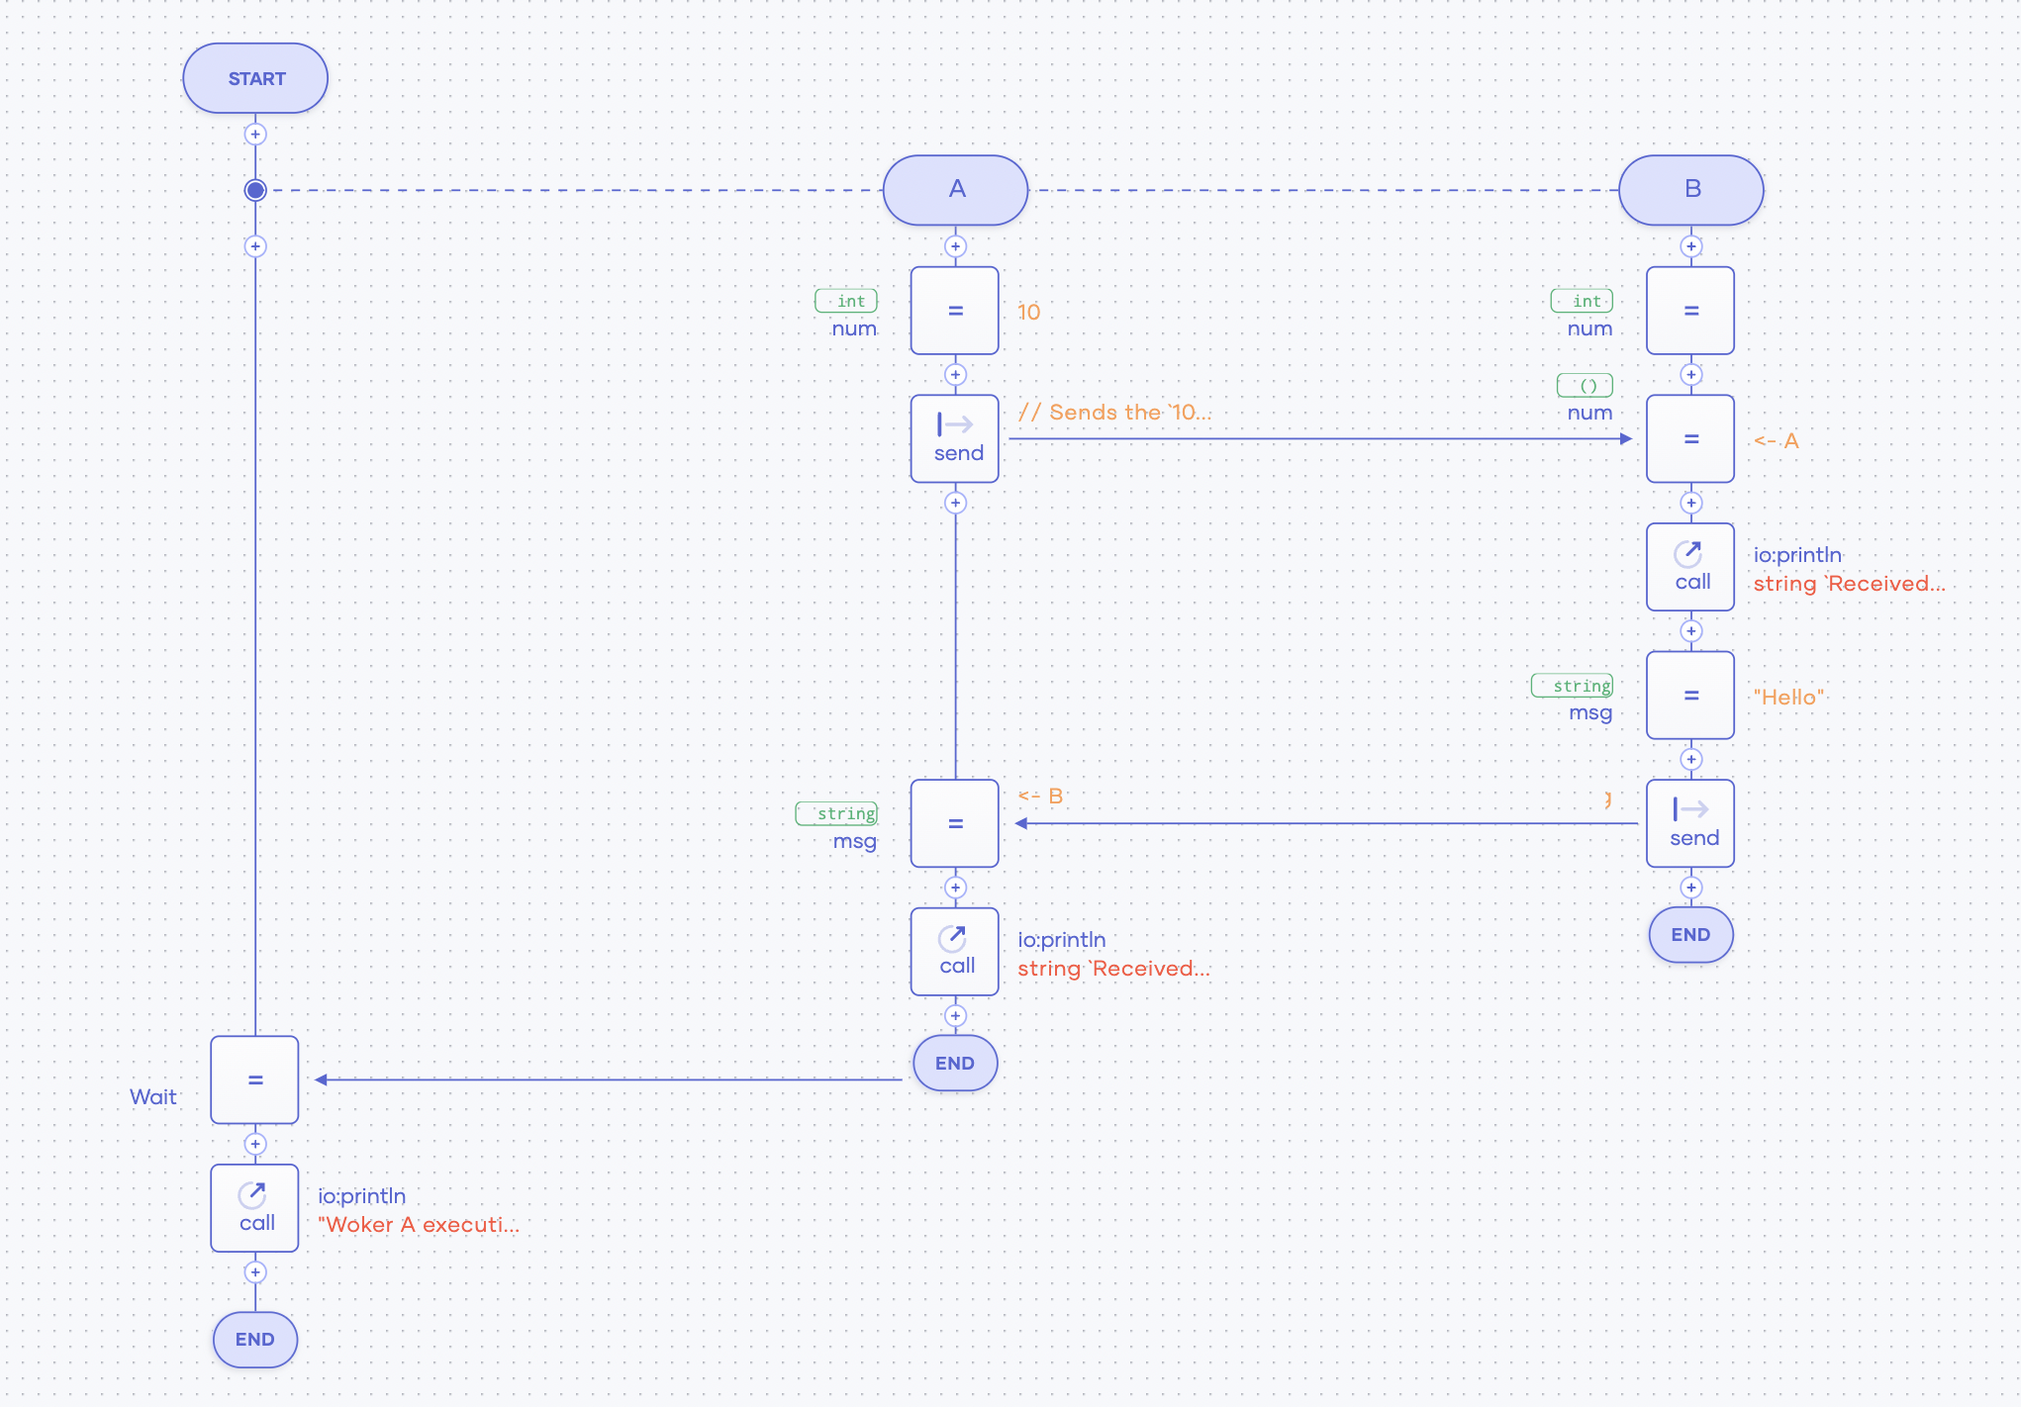
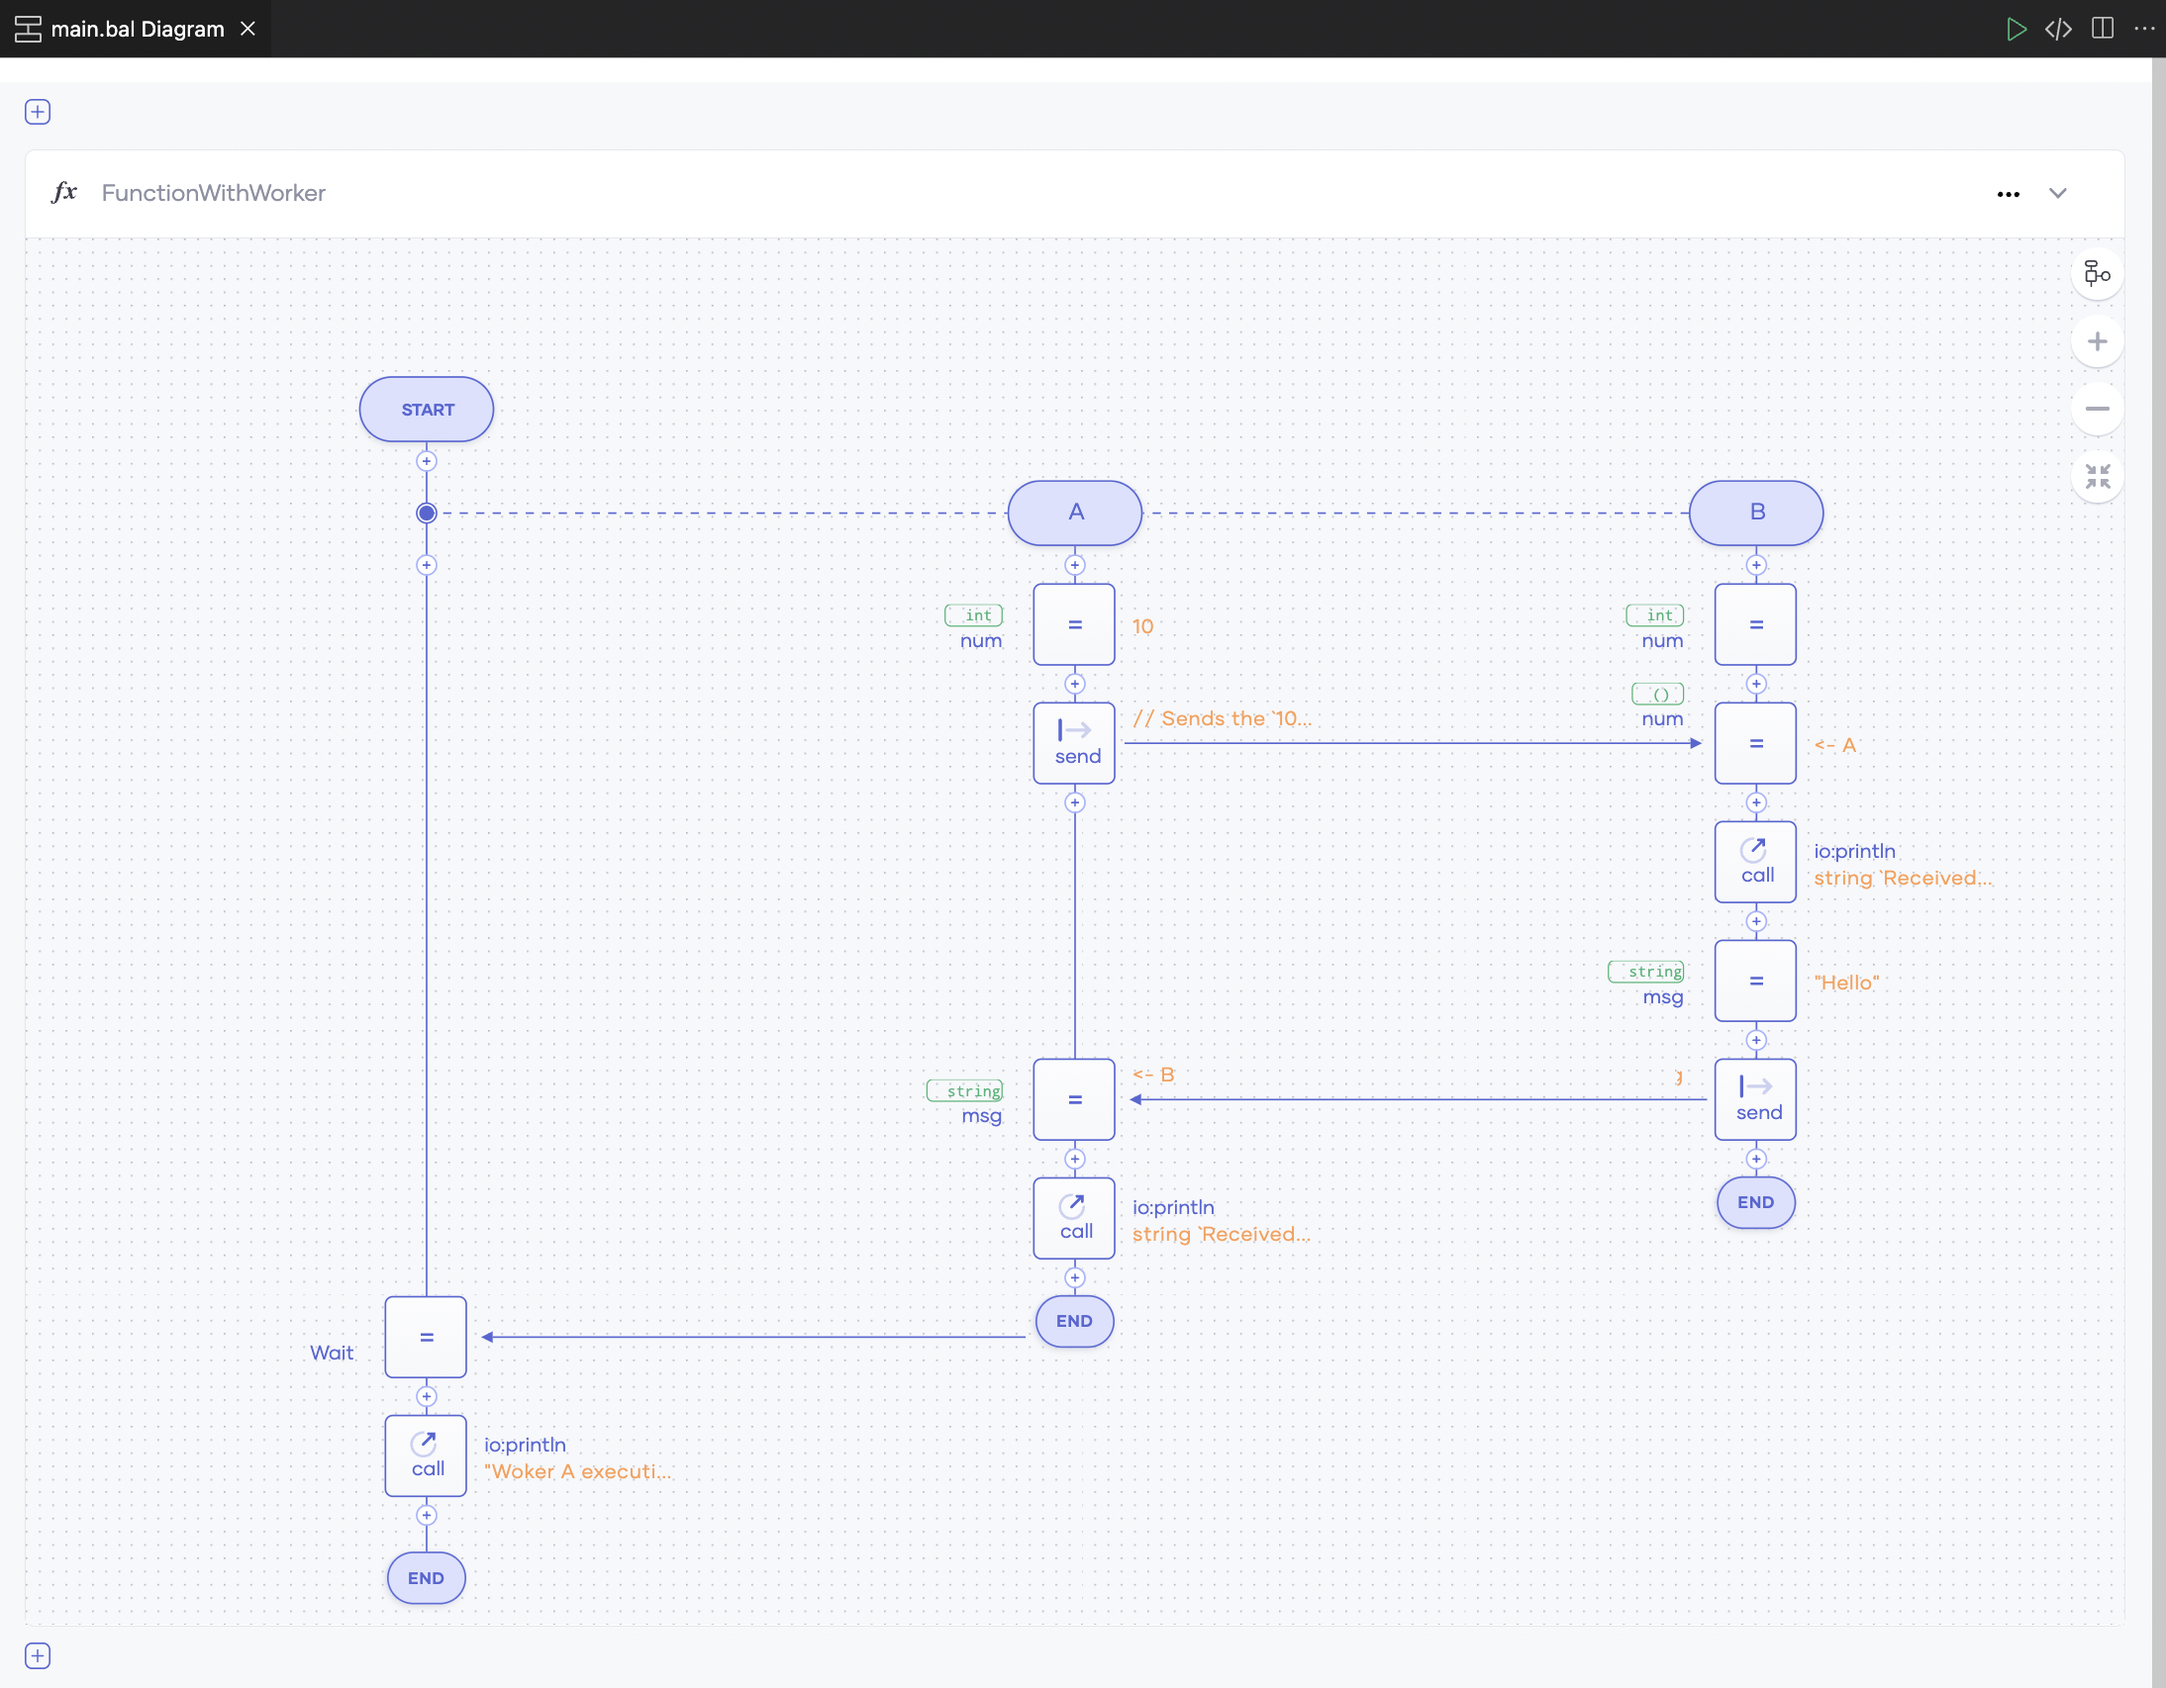
fixing diagram incostency

diff --git a/en/docs/visual-programming/sequence-diagram-view.md b/en/docs/visual-programming/sequence-diagram-view.md
@@ -27,10 +27,29 @@ Ballerina code can be represented graphically in the following ways.
 
 ### Functions
 
-Graphical representations of functions are based on sequence diagrams. Each function has a lifeline with a start and 
-end and this lifeline represents the flow of the function logic. 
+Graphical representations of functions are based on sequence diagrams. Each function has a lifeline with a start and end and this lifeline represents the flow of the function logic. 
 
-![button screenshot](../img/function-sequence-diagram.png)
+**Source code**
+
+```ballerina
+import ballerina/io;
+import ballerina/random;
+public function main() {
+    io:println("Hello, World!");
+
+    if random:createIntInRange(1, 100) == 22 {
+        io:println("the number is 22");
+    } else {
+        io:println("the number is not 22");
+    }
+
+    io:println("Program exit");
+}
+```
+
+**Graphical view**
+    
+![Sequence diagram of a function](../img/function-sequence-diagram.png)
 
 ### Concurrent execution
 
@@ -38,6 +57,8 @@ Concurrent executions are supported in Ballerina through workers. Each worker ha
 the lifeline of the main function body. The diagram also captures asynchronous messaging between workers.
 
 The following example shows how asynchronous messaging is represented in the diagram.
+
+**Source code**
 
 ```ballerina
 public function FunctionWithWorker() {
@@ -69,6 +90,8 @@ public function FunctionWithWorker() {
 }
 ```
 
+**Graphical view**
+
 ![worker screenshot](../img/worker_sample.png)
 
 ### Remote endpoints and clients
@@ -76,6 +99,8 @@ public function FunctionWithWorker() {
 Ballerina specifies interactions with remote endpoints through its syntax. These interactions are presented graphically in the diagram view by giving each endpoint a lifeline. This endpoint lifeline represents the messages that the endpoint can receive.
 
 The following code shows an HTTP client that is used for the `GET` and `POST` requests sent to a remote endpoint.
+
+**Source code**
 
 ```ballerina
 function execute() returns error? {
@@ -86,6 +111,8 @@ function execute() returns error? {
     http:Response response = check reportService->post("/report", result);
 }
 ```
+
+**Graphical view**
 
 <img src="../../img/client-code-representations.png" alt="graphical screenshot" width="450">
 
